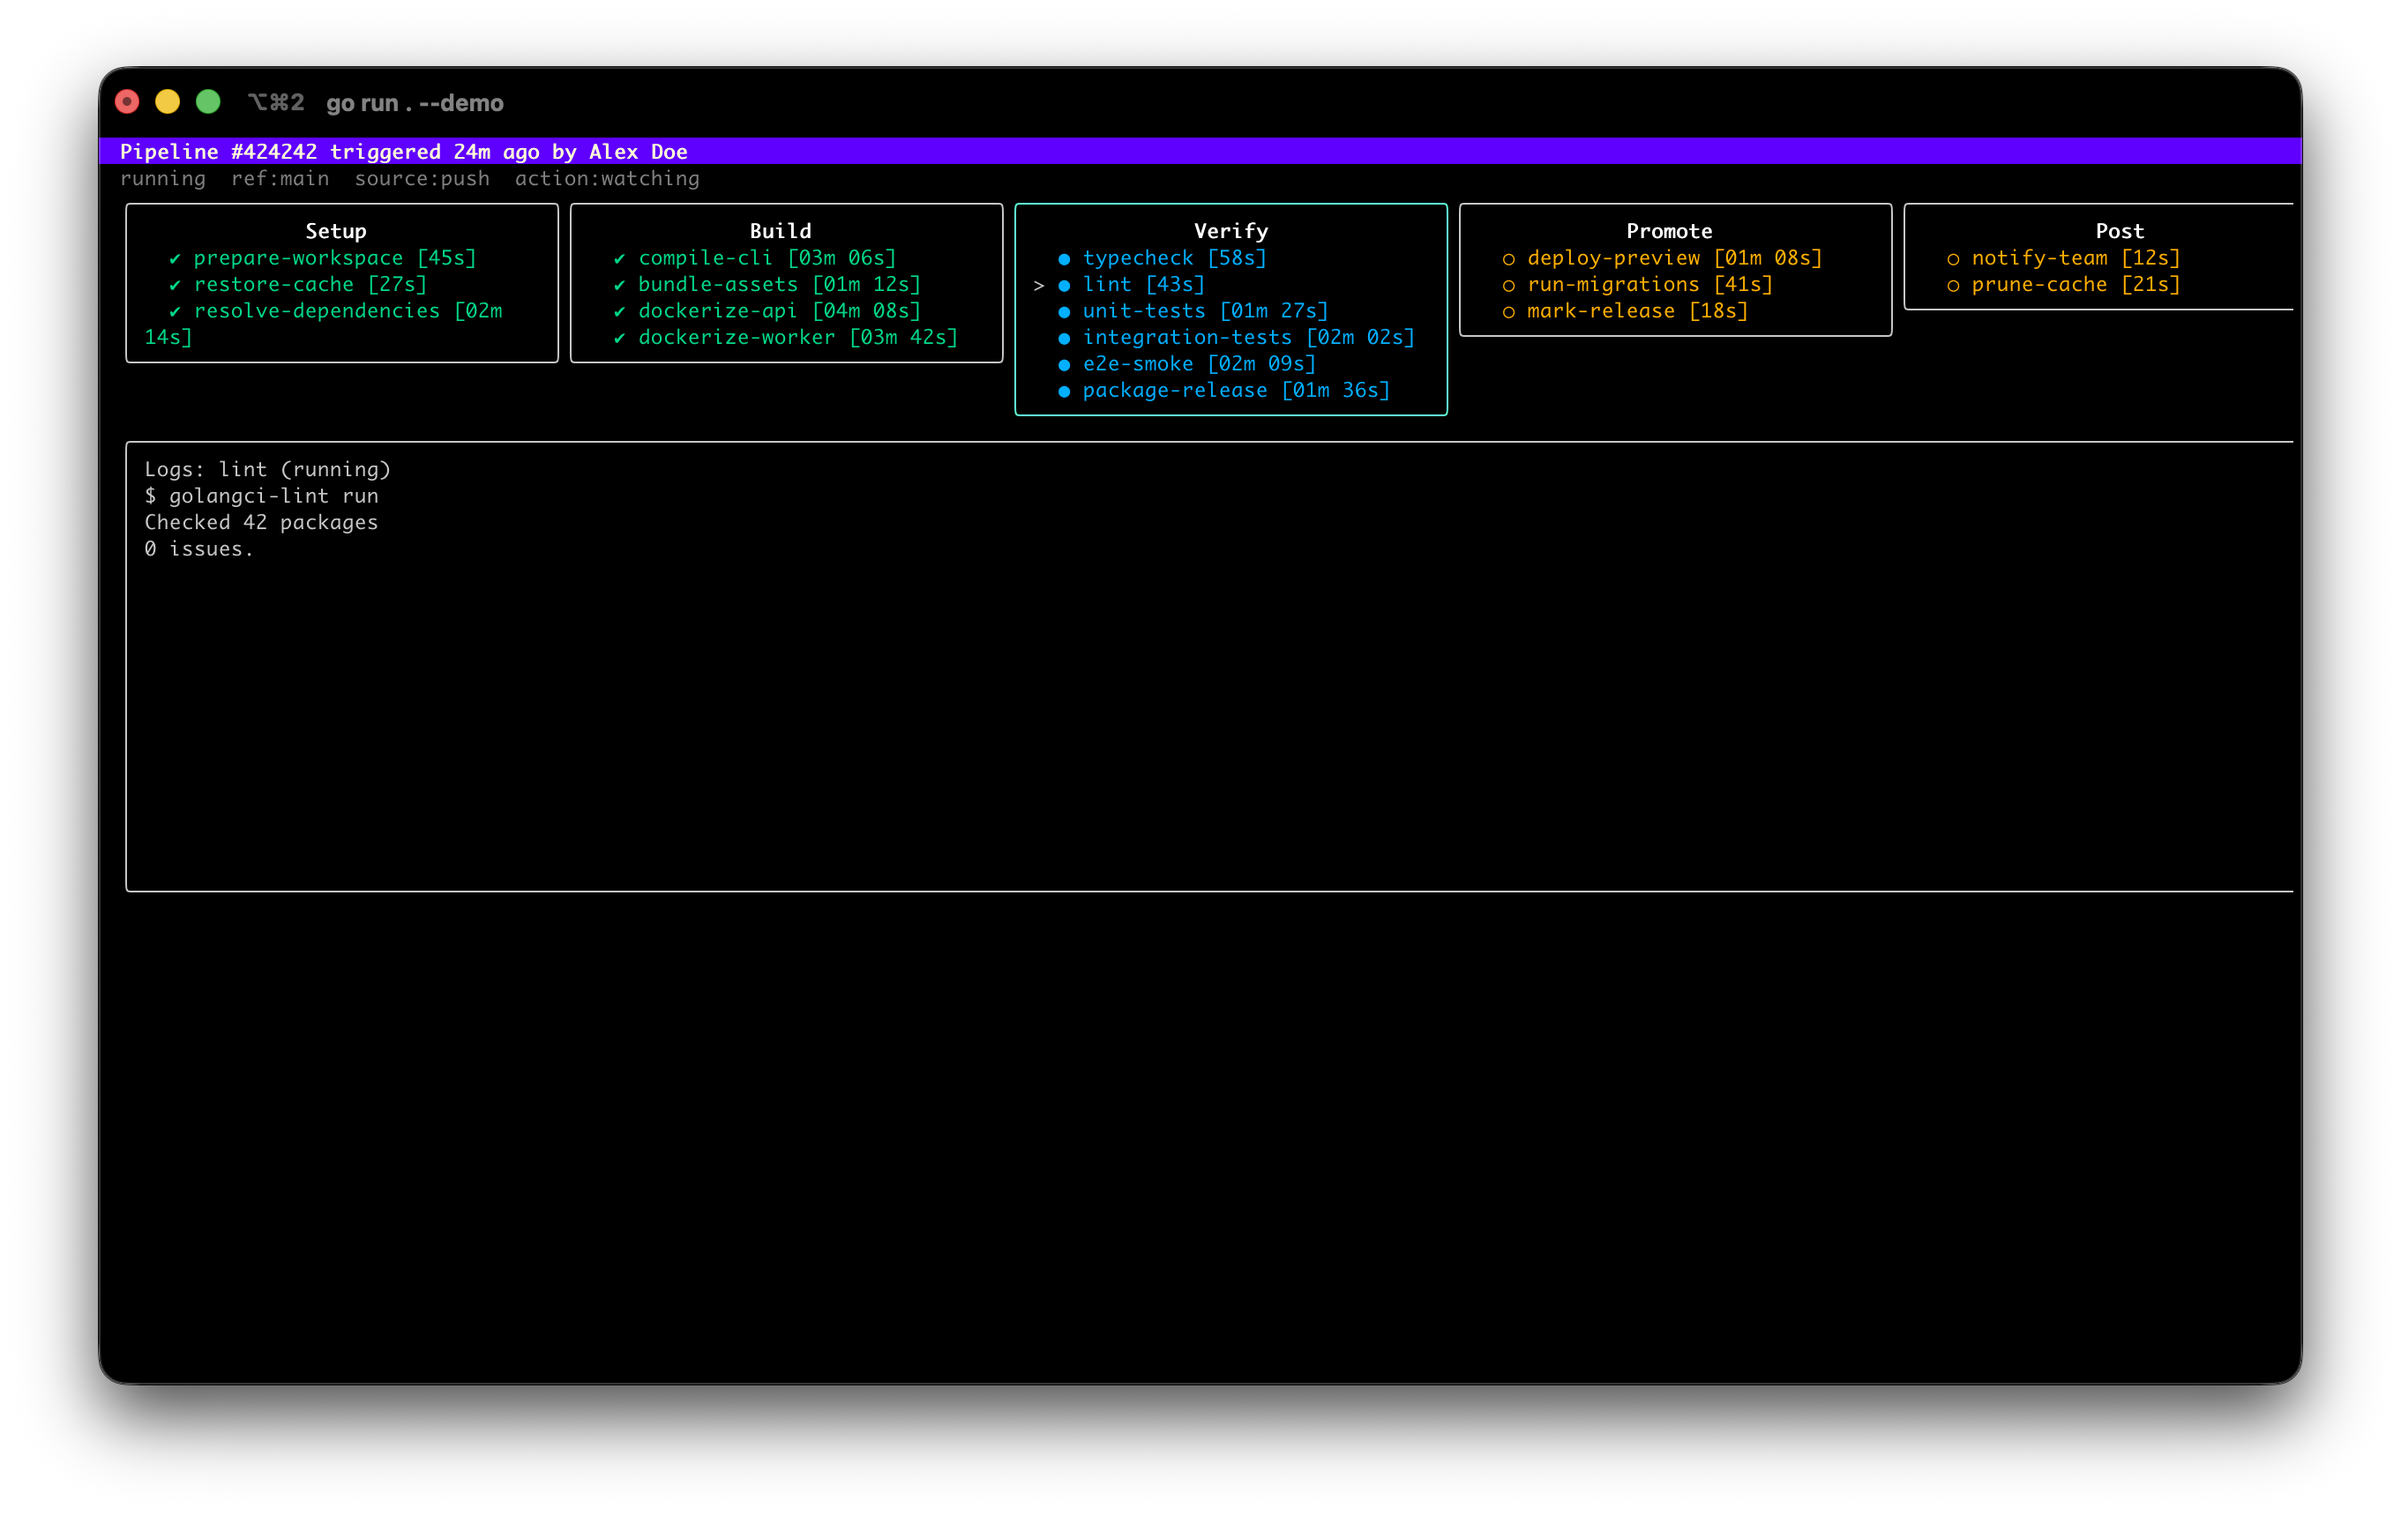
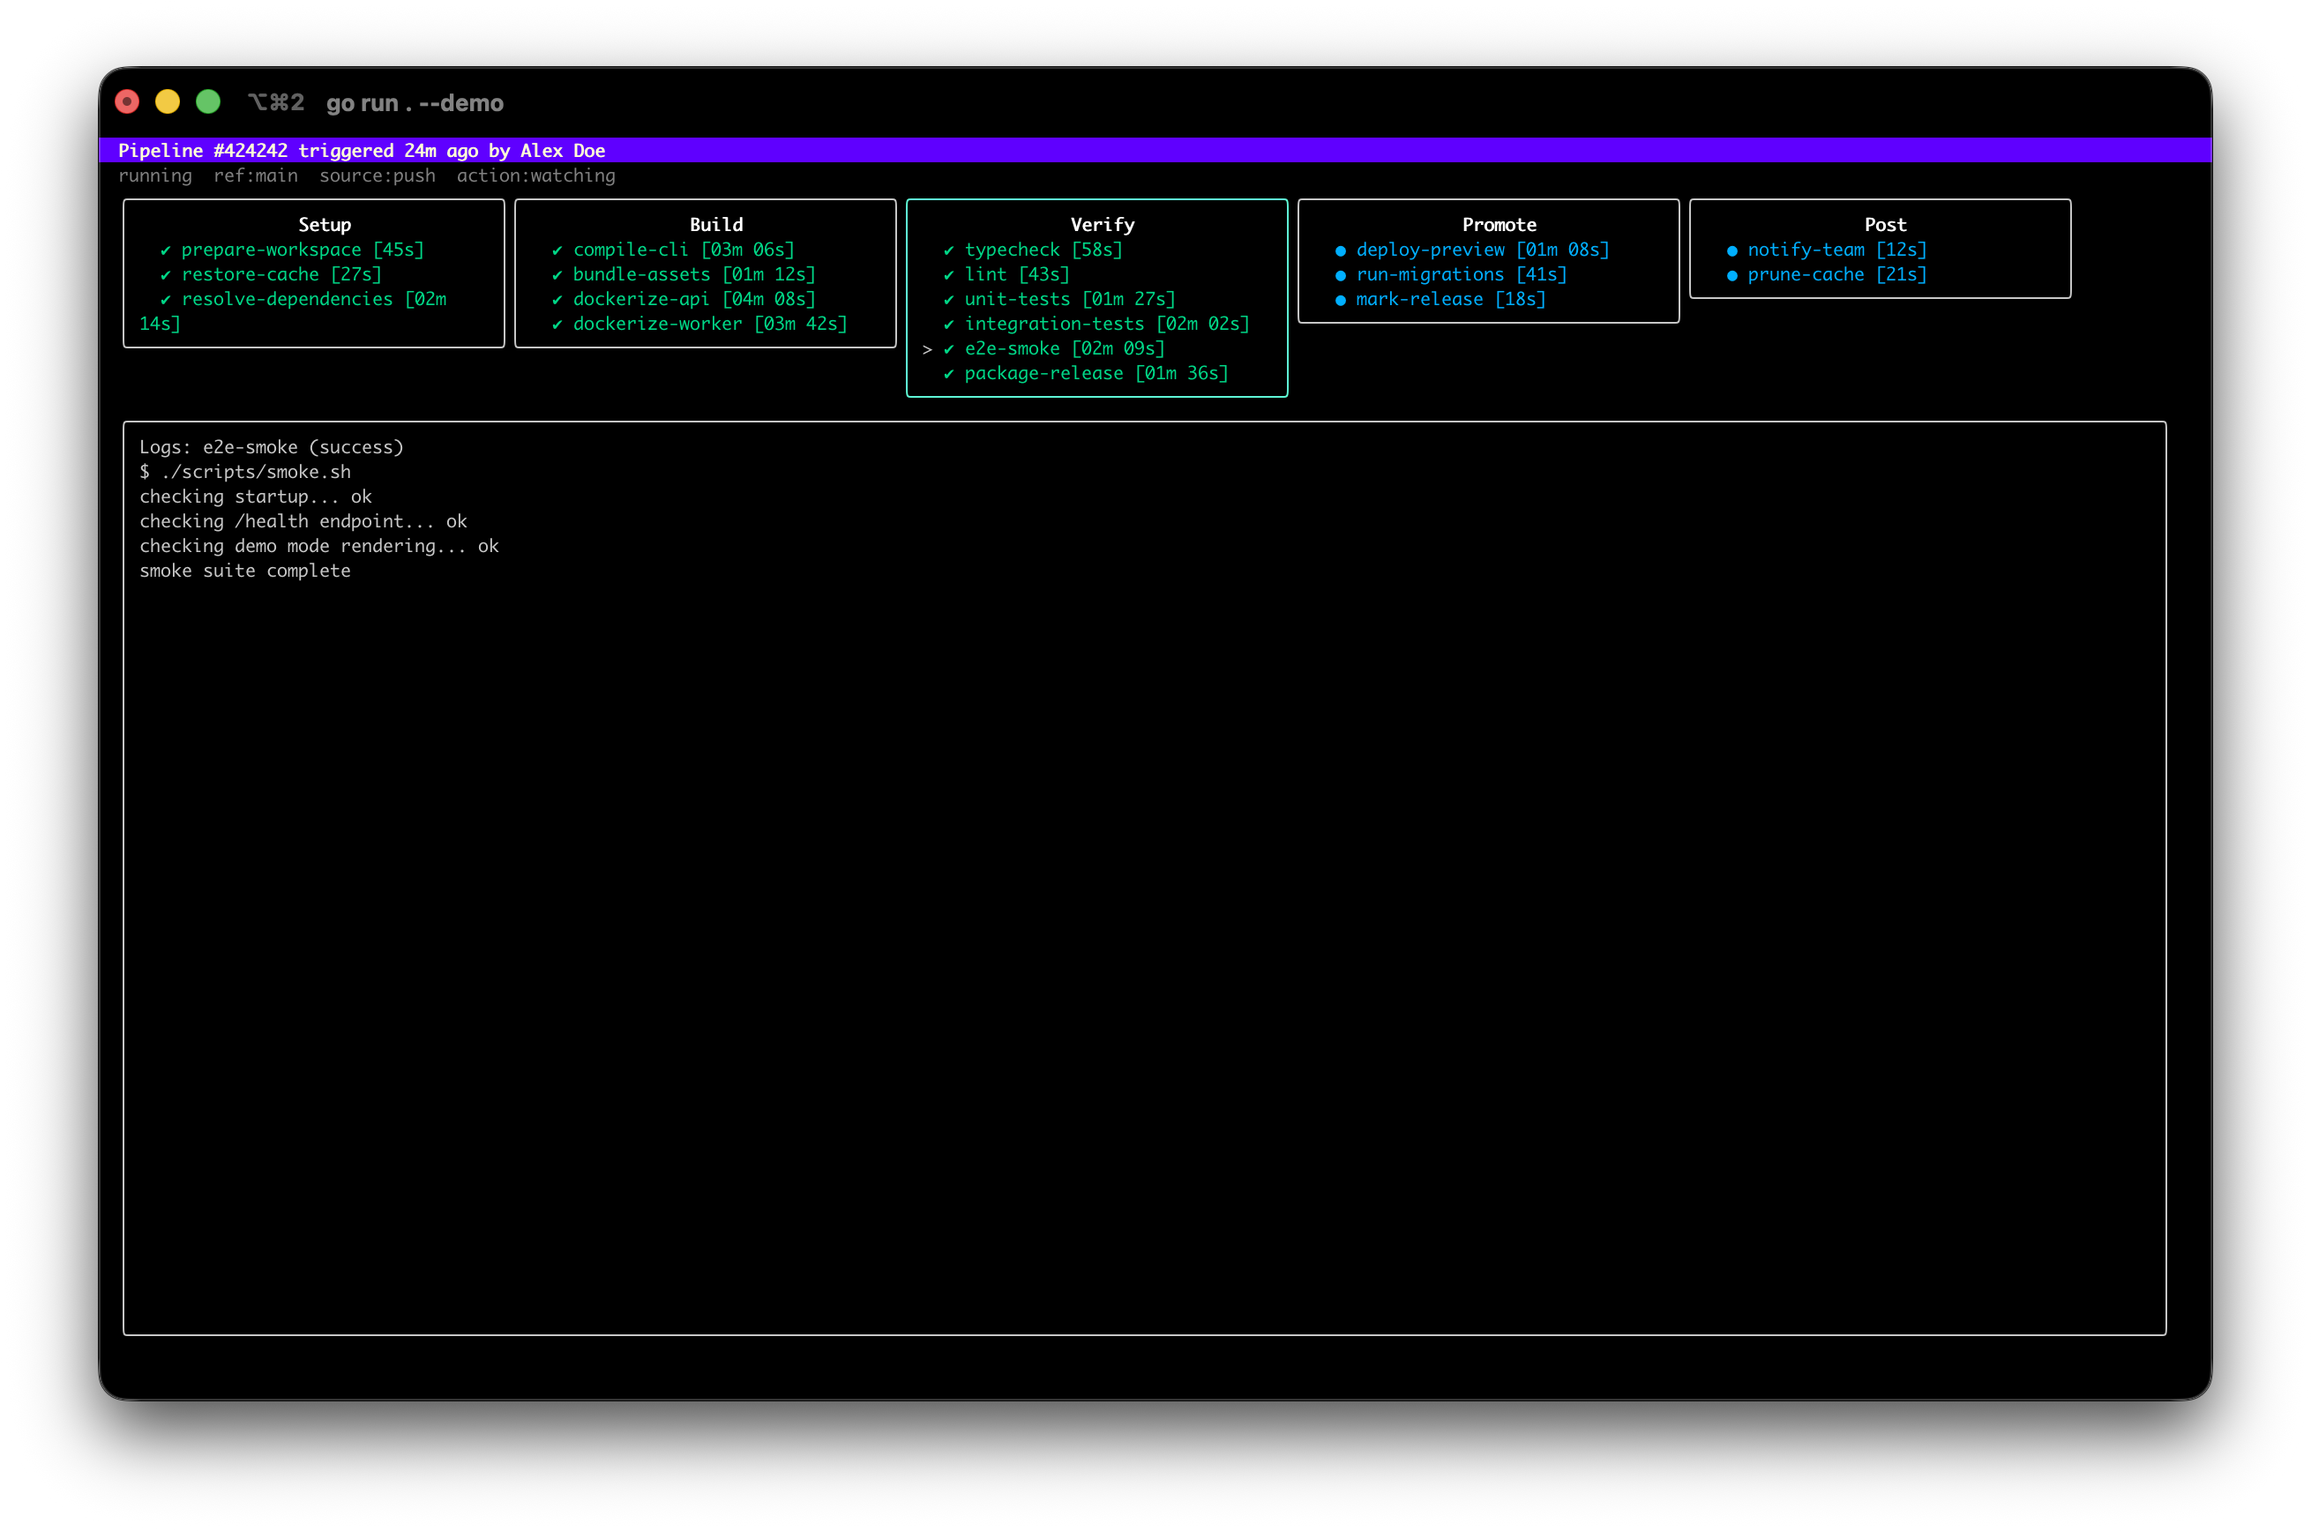
fix: improve terminal layout sizing

diff --git a/internal/ui/ui.go b/internal/ui/ui.go
@@ -30,6 +30,11 @@ var (
 	}
 )
 
+const (
+	horizontalPadding = 2
+	boxChromeWidth    = 4
+)
+
 type eventMsg watcher.Event
 type tickMsg time.Time
 
@@ -135,15 +140,21 @@ func (m modelUI) View() string {
 
 	head := m.renderHeader()
 	body := m.renderStages()
+	m.sizeLogViewport(head, body)
 	logs := m.renderLogs()
 
 	return lipgloss.JoinVertical(lipgloss.Left, head, body, logs)
 }
 
 func (m *modelUI) resizeViewport() {
-	logHeight := max(8, m.height/3)
-	m.logViewport.Width = max(20, m.width-2)
-	m.logViewport.Height = logHeight
+	m.logViewport.Width = max(20, m.width-horizontalPadding-boxChromeWidth)
+	m.logViewport.Height = max(8, m.height/3)
+}
+
+func (m *modelUI) sizeLogViewport(head, body string) {
+	usedHeight := lipgloss.Height(head) + lipgloss.Height(body)
+	remainingHeight := m.height - usedHeight - 1
+	m.logViewport.Height = max(8, remainingHeight-boxChromeWidth)
 }
 
 func (m *modelUI) syncViewport() {
@@ -200,21 +211,22 @@ func (m modelUI) renderStages() string {
 		return lipgloss.NewStyle().Padding(1, 1).Render("No jobs found for the current pipeline yet.")
 	}
 
-	availableWidth := max(20, m.width-2)
-	columnWidth := max(22, availableWidth/max(1, len(m.snapshot.Stages)))
+	availableWidth := max(20, m.width-horizontalPadding)
+	totalColumnWidth := max(18, availableWidth/max(1, len(m.snapshot.Stages)))
+	contentWidth := max(12, totalColumnWidth-boxChromeWidth)
 	columns := make([]string, 0, len(m.snapshot.Stages))
 
 	for i, stage := range m.snapshot.Stages {
-		style := stageStyle.Width(columnWidth - 1)
+		style := stageStyle.Width(contentWidth)
 		if i == m.stageIndex {
-			style = selectedStageStyle.Width(columnWidth - 1)
+			style = selectedStageStyle.Width(contentWidth)
 		}
 
 		stageTitle := stage.Name
 		if stageTitle != "" {
 			stageTitle = strings.ToUpper(stageTitle[:1]) + stageTitle[1:]
 		}
-		lines := []string{lipgloss.NewStyle().Bold(true).Align(lipgloss.Center).Width(columnWidth - 3).Render(stageTitle)}
+		lines := []string{lipgloss.NewStyle().Bold(true).Align(lipgloss.Center).Width(contentWidth).Render(stageTitle)}
 		for j, job := range stage.Jobs {
 			prefix := "  "
 			if i == m.stageIndex && j == m.jobIndex {
@@ -235,7 +247,7 @@ func (m modelUI) renderLogs() string {
 		title = fmt.Sprintf("Logs: %s (%s)", job.Name, job.Status)
 	}
 
-	box := lipgloss.NewStyle().Border(lipgloss.RoundedBorder()).Padding(0, 1).Width(max(20, m.width-2))
+	box := lipgloss.NewStyle().Border(lipgloss.RoundedBorder()).Padding(0, 1).Width(max(20, m.width-horizontalPadding-boxChromeWidth))
 	return lipgloss.NewStyle().Padding(0, 1).Render(box.Render(title + "\n" + m.logViewport.View()))
 }
 
